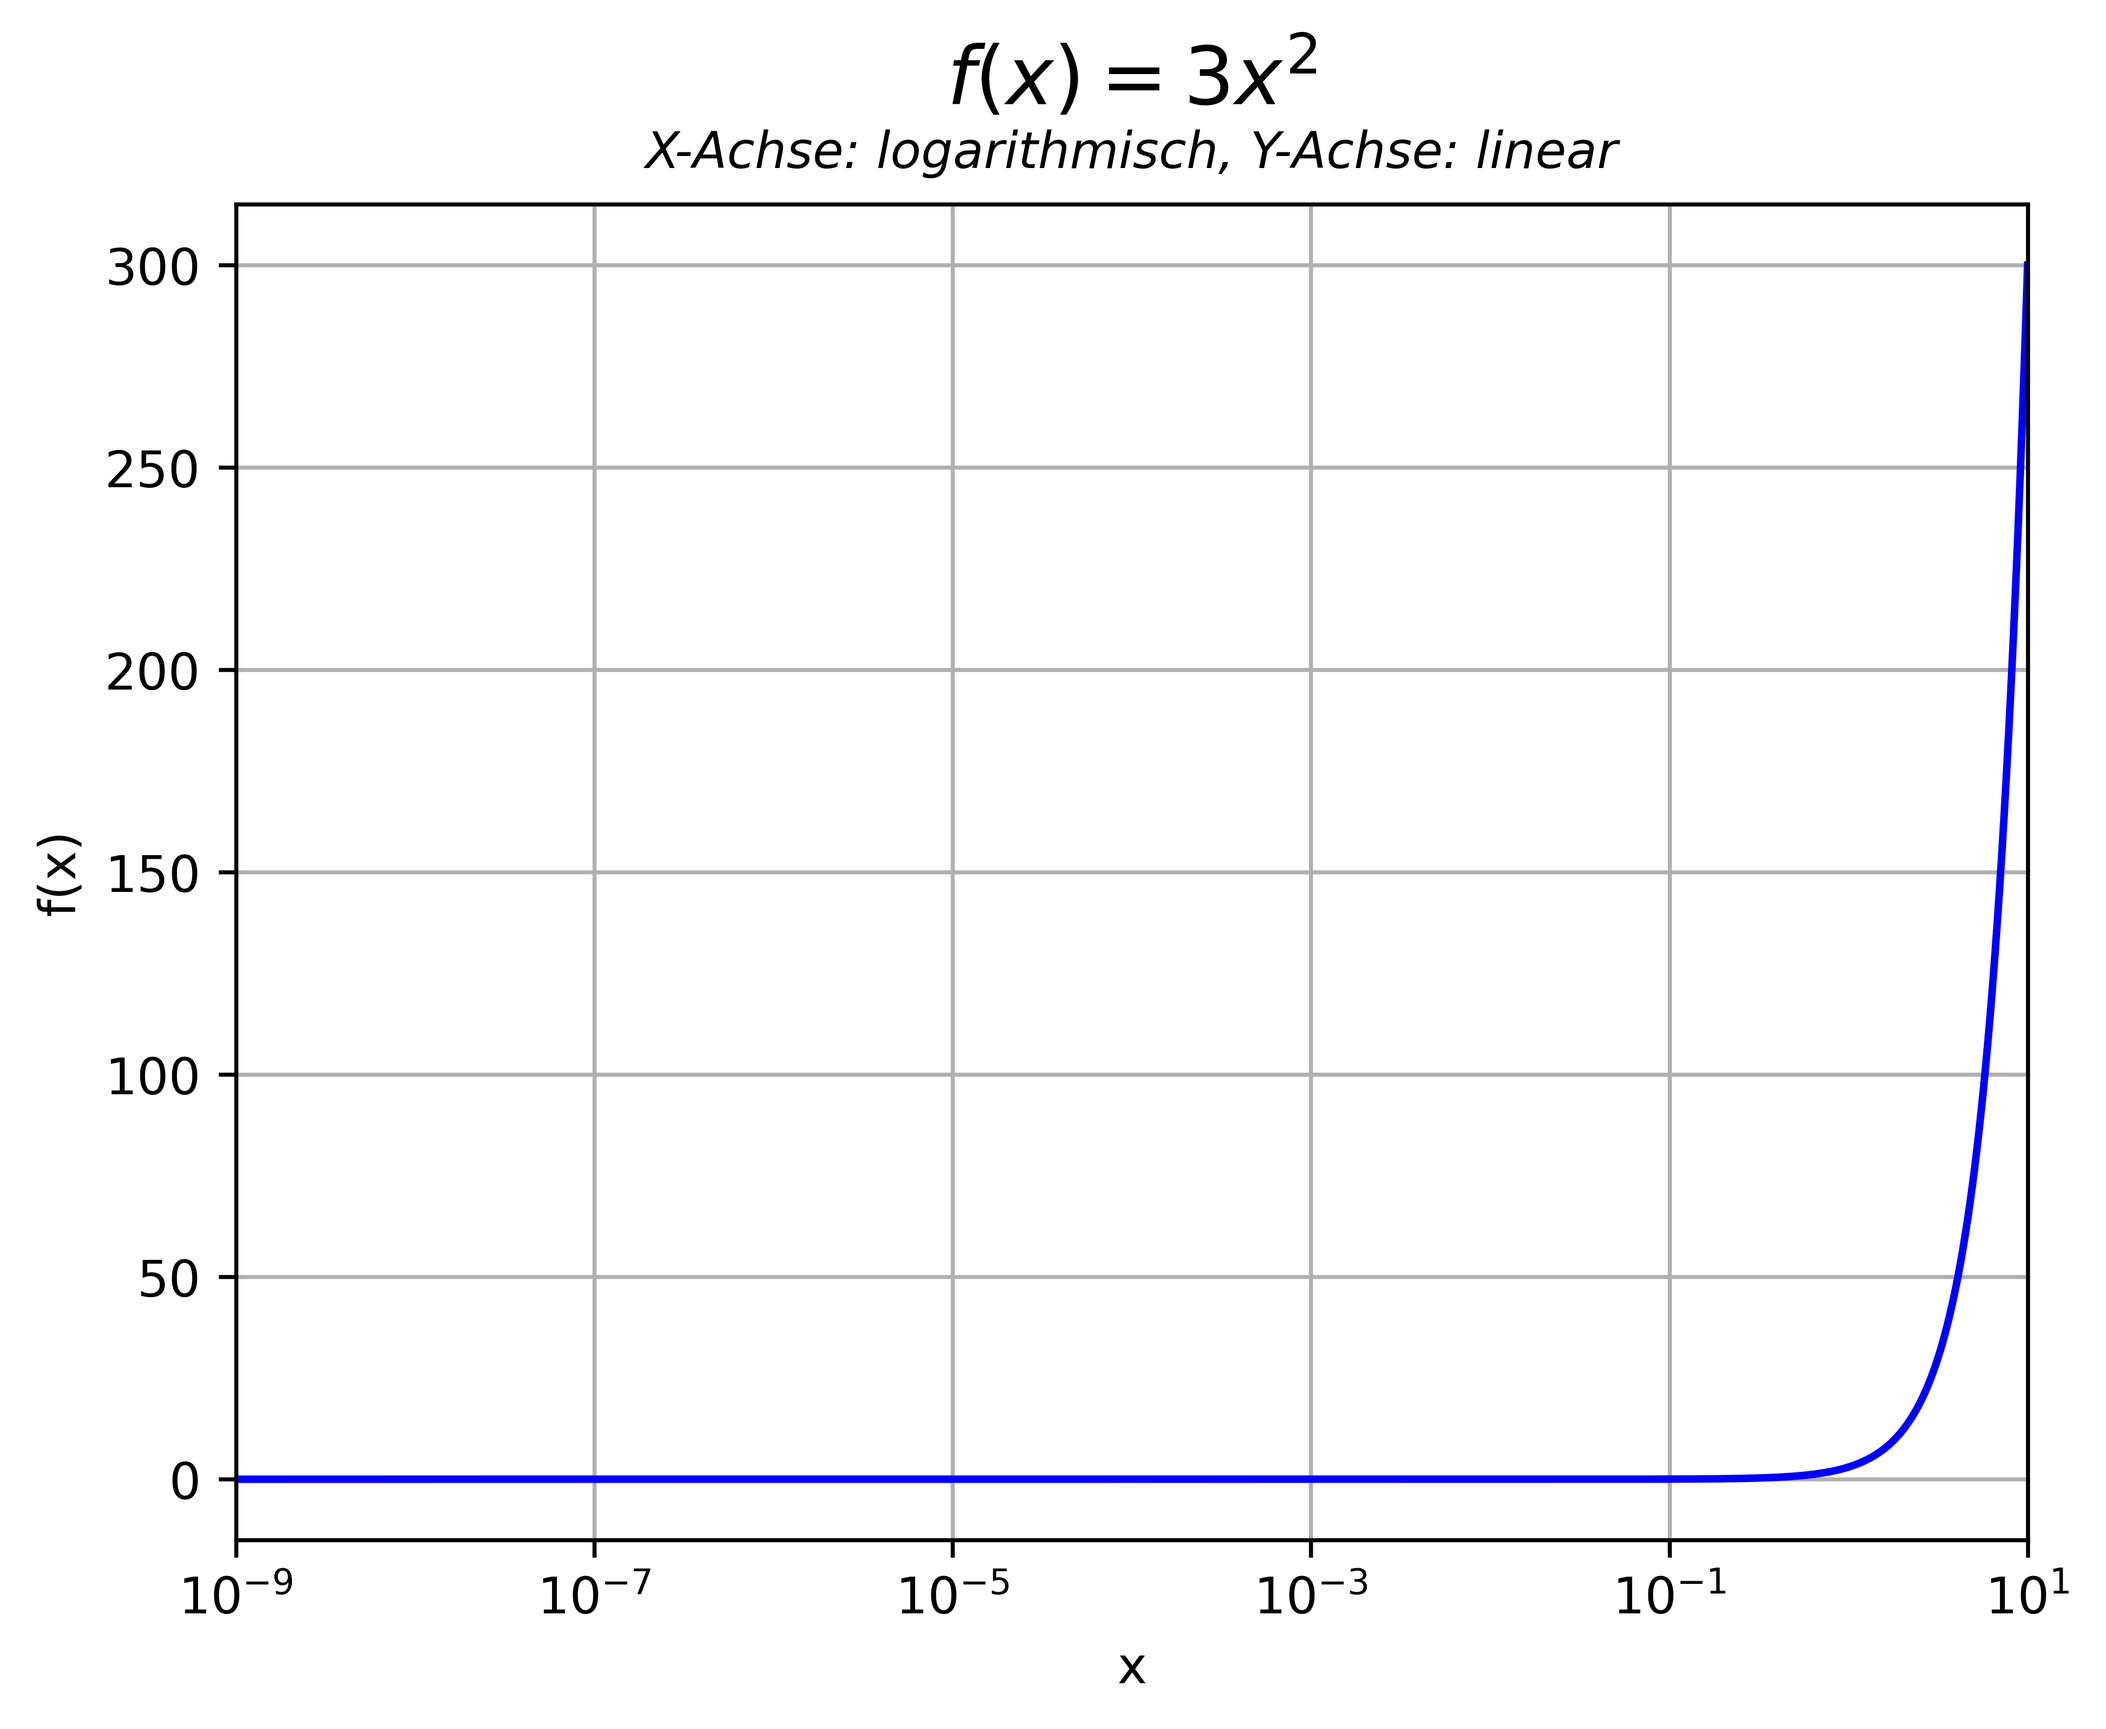
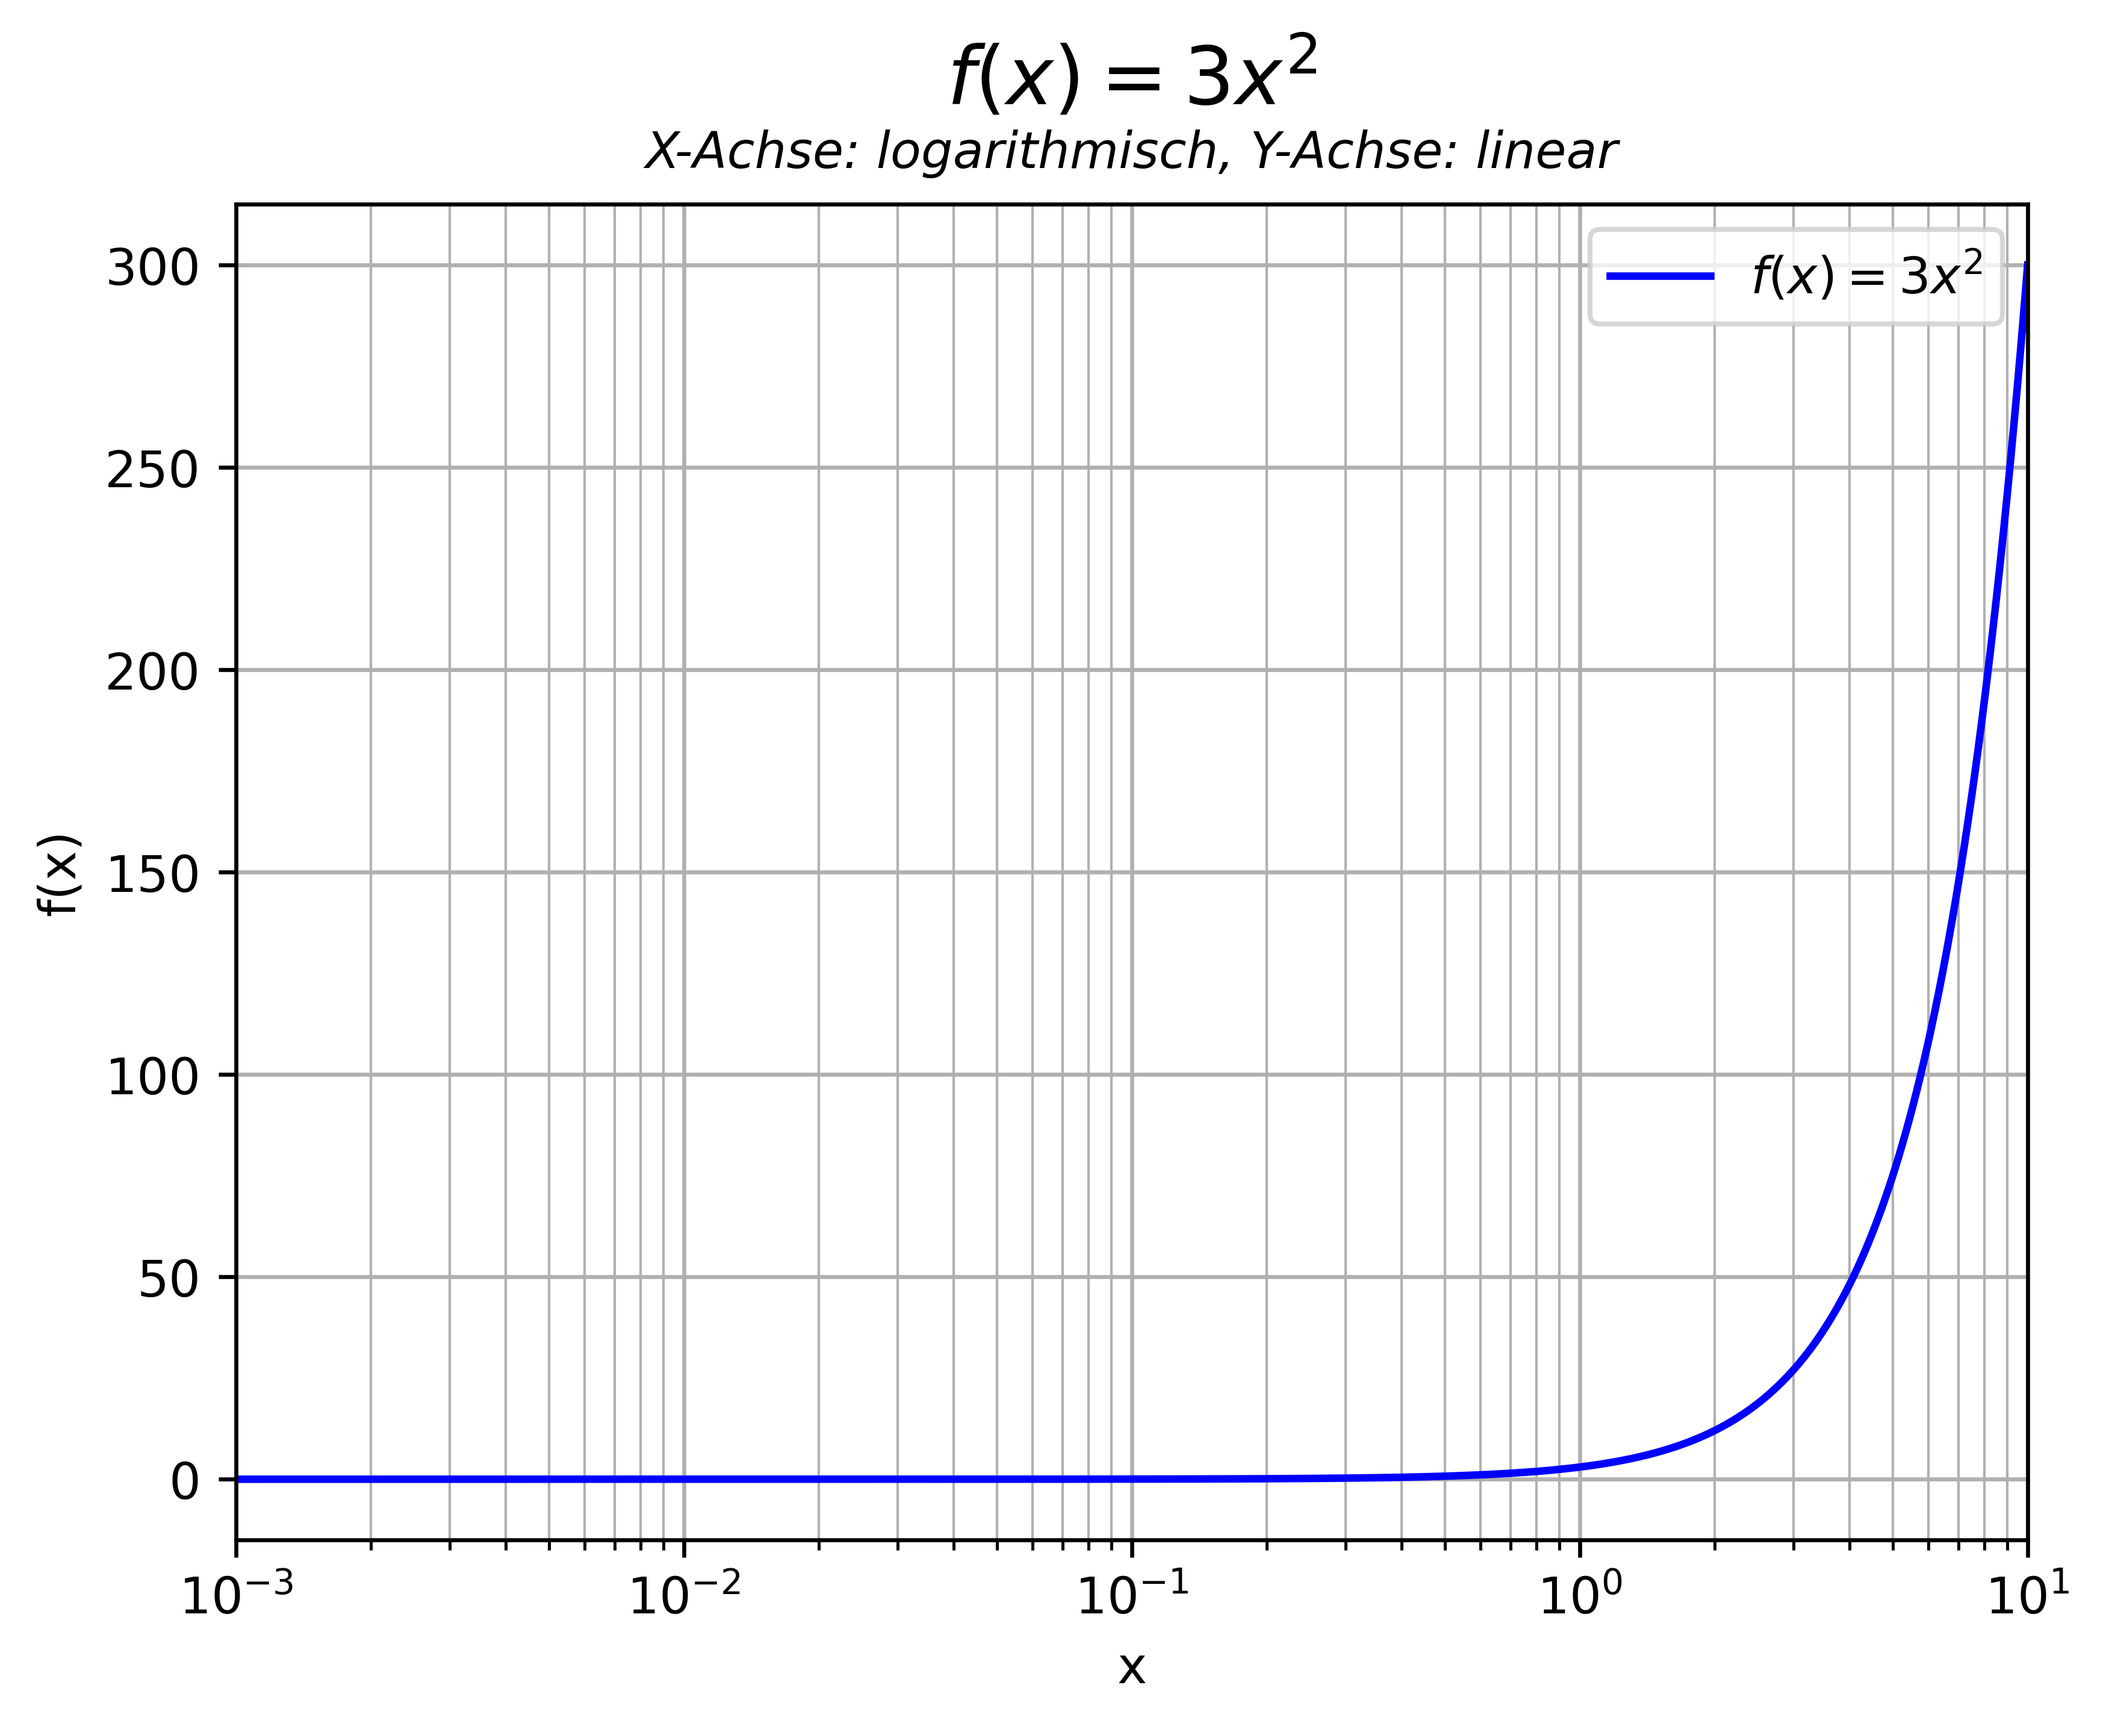
Aufgabe 2, neue Auswertmethode hinzugefügt

diff --git a/Aufgabe2.py b/Aufgabe2.py
@@ -5,11 +5,13 @@ import numpy as np
 #Funktion wird einmal definiert damit es simplere Aufrufe gibt
 def f(x):
     return 3*x**2
+#Funktion g(x) = 3*10**2*log10(x**2)
+minvalue = 1e-3
 
-#Funktion für linear linear
-def Aufgabe2_linear_linear():
+#Funktion lineare Skala mit f(x)
+def Aufgabe2_linear_linear_1():
     # Definiert den Wertebereich der Funktion
-    x = np.linspace(1e-9, 10, 30000)
+    x = np.linspace(minvalue, 10, 30000)
     y = f(x)
     # Figure + Achse
     fig, ax = plt.subplots()
@@ -33,14 +35,86 @@ def Aufgabe2_linear_linear():
     # Gitterlinien für Plot
     ax.grid(True, which="major")
     ax.grid(True, which="minor",linewidth=0.5)
-    # Bereich einschränken (untere Grenze > 0 wegen log-Skala!)
-    ax.set_xlim(1e-9, 10)
-    fig.savefig(r"Bilder\aufgabe2_linear_linear.png", dpi=600, bbox_inches="tight")
+    #Legende aktivieren
+    ax.legend()
+    # Bereich einschränken
+    ax.set_xlim(minvalue, 10)
+    fig.savefig(r"Bilder\aufgabe2_linear_linear_1.png", dpi=600, bbox_inches="tight")
 
-#Funktion für logarithmisch linear
+#Funktion lineare Skala mit f(x)
+def Aufgabe2_linear_linear_2():
+    # Definiert den Wertebereich der Funktion
+    x = np.linspace(minvalue, 10, 30000)
+    y = f(x)
+    u = np.log10(x)
+    # Figure + Achse
+    fig, ax = plt.subplots()
+    # Graph zeichnen
+    ax.plot(u, y, color="blue", label=r"$f(x) = 3x^2$")
+    # 1. Zeile: Formel, größere Schrift
+    ax.set_title(r"$f(x) = 3x^2$", fontsize=16, pad=20)
+    # 2. Zeile: kleinere Schrift, direkt unter der ersten
+    ax.text(
+        0.5, 1.02,
+        "X-Achse: logarithmisch, Y-Achse: linear",
+        transform=ax.transAxes,
+        ha="center",
+        va="bottom",
+        fontsize=10,
+        style="italic"
+    )
+    # Achsenbeschriftungen
+    ax.set_xlabel(r"$\log_{10}(x)$")
+    ax.set_ylabel("f(x)")
+    # Gitterlinien für Plot
+    ax.grid(True, which="major")
+    ax.grid(True, which="minor",linewidth=0.5)
+    #Legende aktivieren
+    ax.legend()
+    # Bereich einschränken
+    ax.set_xlim(-3, 1)
+    fig.savefig(r"Bilder\aufgabe2_linear_linear_2.png", dpi=600, bbox_inches="tight")
+
+    #Funktion lineare Skala mit f(x)
+def Aufgabe2_linear_linear_3():
+    # Definiert den Wertebereich der Funktion
+    x = np.linspace(minvalue, 10, 30000)
+    y = f(x)
+    u = np.log10(x)
+    v = np.log10(3)+2*u
+
+    # Figure + Achse
+    fig, ax = plt.subplots()
+    # Graph zeichnen
+    ax.plot(u, v, color="blue", label=r"$f(x) = 3x^2$")
+    # 1. Zeile: Formel, größere Schrift
+    ax.set_title(r"$f(x) = 3x^2$", fontsize=16, pad=20)
+    # 2. Zeile: kleinere Schrift, direkt unter der ersten
+    ax.text(
+        0.5, 1.02,
+        "X-Achse: logarithmisch, Y-Achse: logarithmisch",
+        transform=ax.transAxes,
+        ha="center",
+        va="bottom",
+        fontsize=10,
+        style="italic"
+    )
+    # Achsenbeschriftungen
+    ax.set_xlabel(r"$\log_{10}(x)$")
+    ax.set_ylabel(r"$\log_{10}(3)+2*log_{10}(x)$")
+    # Gitterlinien für Plot
+    ax.grid(True, which="major")
+    ax.grid(True, which="minor",linewidth=0.5)
+    #Legende aktivieren
+    ax.legend()
+    # Bereich einschränken
+    ax.set_xlim(-3, 1)
+    fig.savefig(r"Bilder\aufgabe2_linear_linear_3.png", dpi=600, bbox_inches="tight")
+
+#Funktion semilog Skala mit f(x)
 def Aufgabe2_log_linear():
     # Definiert den Wertebereich der Funktion
-    x = np.linspace(1e-9, 10, 30000)
+    x = np.linspace(minvalue, 10, 30000)
     y = f(x)
     # Figure + Achse
     fig, ax = plt.subplots()
@@ -67,13 +141,16 @@ def Aufgabe2_log_linear():
     # Gitterlinien für Plot
     ax.grid(True, which="major")
     ax.grid(True, which="minor",linewidth=0.5)
+    #Legende aktivieren
+    ax.legend()
     # Bereich einschränken (untere Grenze > 0 wegen log-Skala!)
-    ax.set_xlim(1e-9, 10)
+    ax.set_xlim(minvalue, 10)
     fig.savefig(r"Bilder\aufgabe2_logarithmisch_linear.png", dpi=600, bbox_inches="tight")
 
+#Funktion logarithmische Skala mit f(x)
 def Aufgabe2_log_log():
     # Definiert den Wertebereich der Funktion
-    x = np.linspace(1e-9, 10, 30000)
+    x = np.linspace(minvalue, 10, 30000)
     y = f(x)
     # Figure + Achse
     fig, ax = plt.subplots()
@@ -100,13 +177,17 @@ def Aufgabe2_log_log():
     # Gitterlinien für Plot
     ax.grid(True, which="major")
     ax.grid(True, which="minor",linewidth=0.5)
+    #Legende aktivieren
+    ax.legend()
     # Bereich einschränken (untere Grenze > 0 wegen log-Skala!)
-    ax.set_xlim(1e-9, 10)
+    ax.set_xlim(minvalue, 10)
     fig.savefig(r"Bilder\aufgabe2_logarithmisch_logarithmisch.png", dpi=600, bbox_inches="tight")
     
 #Aufruf der Funktion
 if __name__ == "__main__":
-    Aufgabe2_linear_linear()
+    Aufgabe2_linear_linear_1()
+    Aufgabe2_linear_linear_2()
     Aufgabe2_log_linear()
+    Aufgabe2_linear_linear_3()
     Aufgabe2_log_log()
     plt.show()

diff --git a/Aufgabe3.py b/Aufgabe3.py
@@ -1,0 +1,88 @@
+import numpy as np
+import matplotlib.pyplot as plt
+import os
+
+# Funktion
+def f(x):
+    return 3 * x**2
+
+# Ordner für Bilder
+out_dir = "Bilder"
+os.makedirs(out_dir, exist_ok=True)
+
+def aufgabe2_alle():
+    # x-Bereiche
+    x_lin = np.linspace(0, 10, 1000)    # für lineare Skalen
+    x_pos = np.linspace(0.1, 10, 1000)  # für log-Skalen (x > 0!)
+    y_lin = f(x_lin)
+    y_pos = f(x_pos)
+
+    # 1) linear-linear
+    fig, ax = plt.subplots(figsize=(5.8, 4))   # gut druckbar (A5 quer)
+    ax.plot(x_lin, y_lin, color="blue", label=r"$f(x) = 3x^2$")
+    ax.set_title(r"$f(x) = 3x^2$" "\nX: linear, Y: linear")
+    ax.set_xlabel("x")
+    ax.set_ylabel("f(x)")
+    ax.grid(True)
+    ax.legend()
+    fig.savefig(os.path.join(out_dir, "aufgabe2_1_linear_linear.png"),
+                dpi=600, bbox_inches="tight")
+
+    # 2) log x, linear y
+    fig, ax = plt.subplots(figsize=(5.8, 4))
+    ax.plot(x_pos, y_pos, color="blue", label=r"$f(x) = 3x^2$")
+    ax.set_xscale("log")
+    ax.set_title(r"$f(x) = 3x^2$" "\nX: logarithmisch, Y: linear")
+    ax.set_xlabel("x (log)")
+    ax.set_ylabel("f(x)")
+    ax.grid(True, which="both")
+    ax.legend()
+    fig.savefig(os.path.join(out_dir, "aufgabe2_2_logx_linear.png"),
+                dpi=600, bbox_inches="tight")
+
+    # 3) linear x, log y
+    fig, ax = plt.subplots(figsize=(5.8, 4))
+    ax.plot(x_pos, y_pos, color="blue", label=r"$f(x) = 3x^2$")
+    ax.set_yscale("log")
+    ax.set_title(r"$f(x) = 3x^2$" "\nX: linear, Y: logarithmisch")
+    ax.set_xlabel("x")
+    ax.set_ylabel("f(x) (log)")
+    ax.grid(True, which="both")
+    ax.legend()
+    fig.savefig(os.path.join(out_dir, "aufgabe2_3_linear_logy.png"),
+                dpi=600, bbox_inches="tight")
+
+    # 4) log x, log y
+    fig, ax = plt.subplots(figsize=(5.8, 4))
+    ax.plot(x_pos, y_pos, color="blue", label=r"$f(x) = 3x^2$")
+    ax.set_xscale("log")
+    ax.set_yscale("log")
+    ax.set_title(r"$f(x) = 3x^2$" "\nX: logarithmisch, Y: logarithmisch")
+    ax.set_xlabel("x (log)")
+    ax.set_ylabel("f(x) (log)")
+    ax.grid(True, which="both")
+    ax.legend()
+    fig.savefig(os.path.join(out_dir, "aufgabe2_4_logx_logy.png"),
+                dpi=600, bbox_inches="tight")
+
+    # 5) u-v-Plot mit log10
+    # u = log10(x), v = log10(y) = log10(3) + 2*log10(x)
+    u = np.log10(x_pos)
+    v = np.log10(y_pos)
+
+    fig, ax = plt.subplots(figsize=(5.8, 4))
+    ax.plot(u, v, color="blue", label=r"$v = 2u + \log_{10}(3)$")
+    ax.set_title("u-v-Darstellung\n"
+                 r"$u = \log_{10}(x),\ v = \log_{10}(y)$")
+    ax.set_xlabel(r"$u = \log_{10}(x)$")
+    ax.set_ylabel(r"$v = \log_{10}(y)$")
+    ax.grid(True)
+    ax.legend()
+    fig.savefig(os.path.join(out_dir, "aufgabe2_5_uv_plot.png"),
+                dpi=600, bbox_inches="tight")
+
+    # Wenn du alle nacheinander sehen willst:
+    plt.show()
+
+if __name__ == "__main__":
+    aufgabe2_alle()
